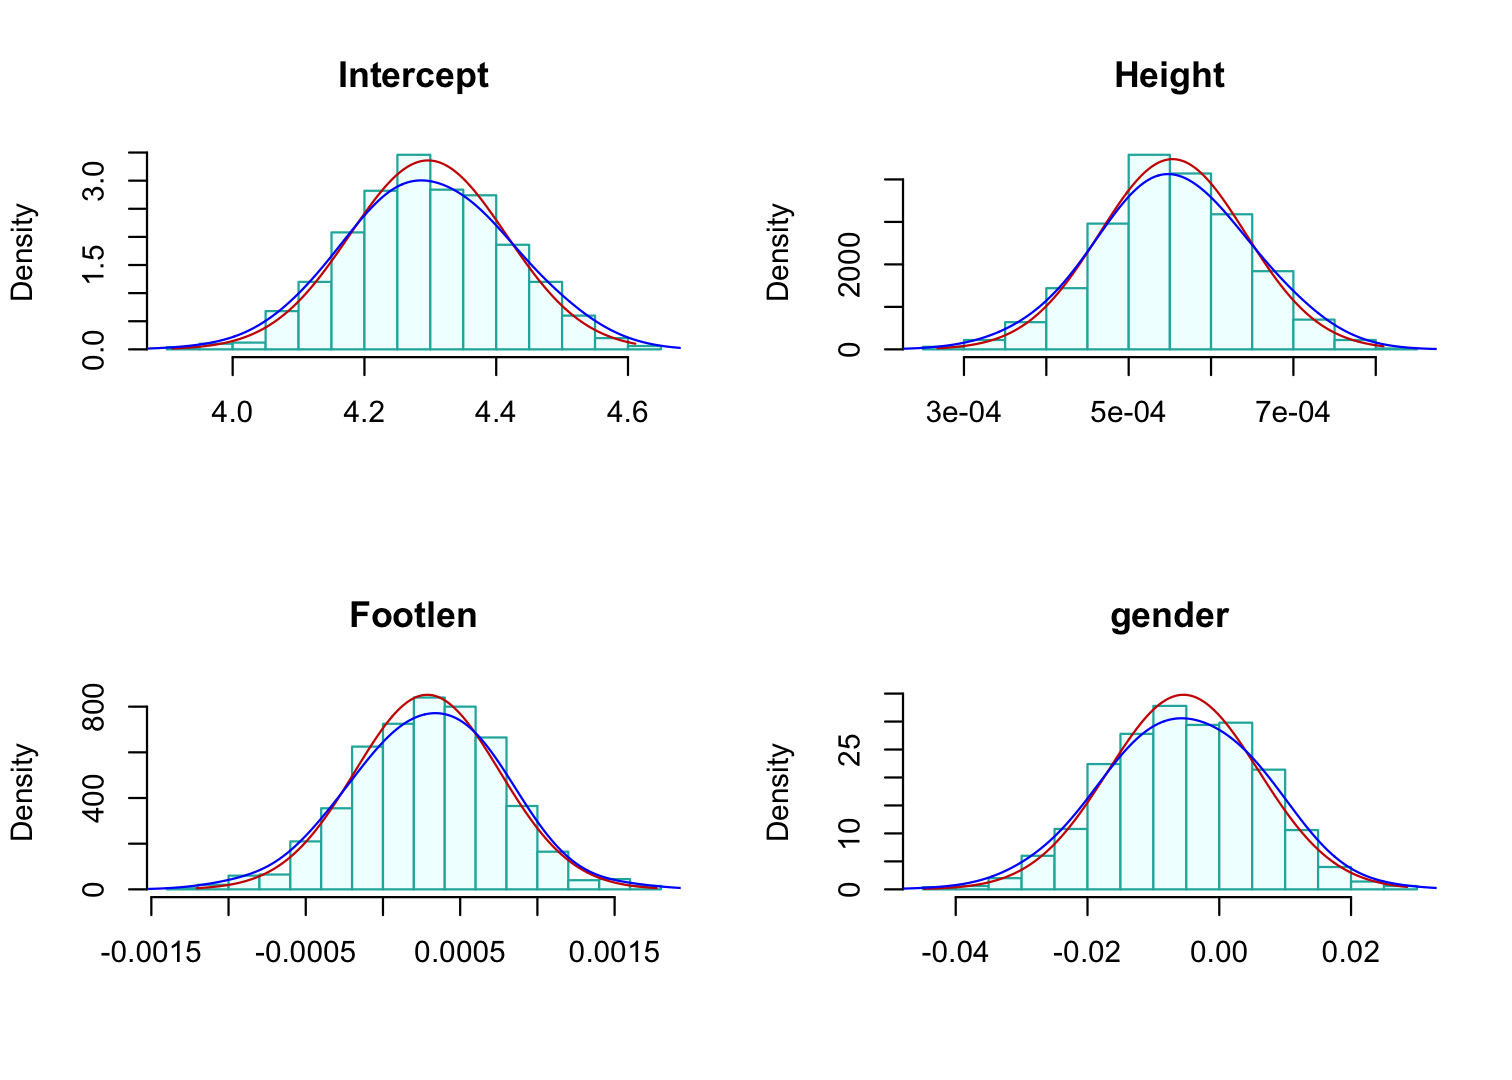
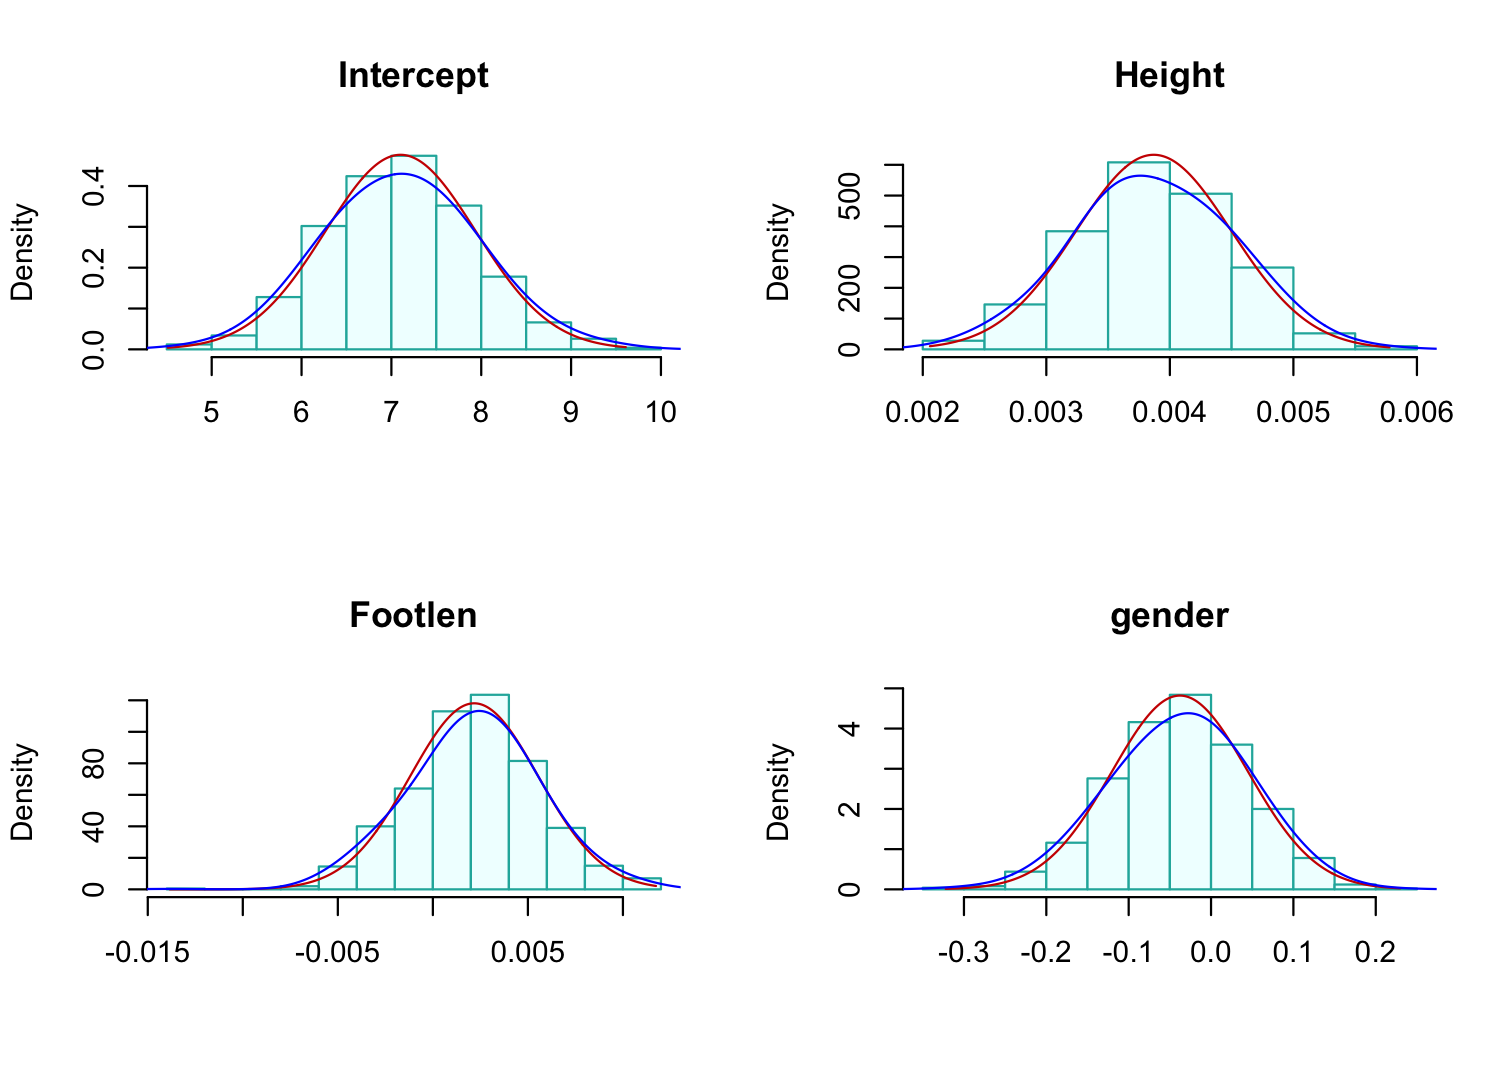
Add files via upload

diff --git a/MLR-Group-Presentation.html b/MLR-Group-Presentation.html
@@ -190,16 +190,16 @@ Table: Goodness-of-fit Measures of Candidate Models
 
 Table: Regression Coefficient Matrix
 
-|             |Estimate |Std. Error |t value |Pr(&gt;&amp;#124;t&amp;#124;) |btc.ci.95            |
-|:------------|:--------|:----------|:-------|:------------------|:--------------------|
-|(Intercept)  |4.3042   |0.0838     |51.3727 |0.0000             |[ 4.0669 ,  4.5256 ] |
-|height       |0.0005   |0.0001     |8.0735  |0.0000             |[ 4e-04 ,  7e-04 ]   |
-|footLen      |0.0003   |0.0003     |1.0315  |0.3040             |[ -7e-04 ,  0.0011 ] |
-|genderFemale |-0.0057  |0.0091     |-0.6314 |0.5287             |[ -0.0289 ,  0.016 ] |
+|             |Estimate |Std. Error |t value |Pr(&gt;&amp;#124;t&amp;#124;) |btc.ci.95             |
+|:------------|:--------|:----------|:-------|:------------------|:---------------------|
+|(Intercept)  |7.1362   |0.5890     |12.1153 |0.0000             |[ 5.5095 ,  8.7814 ]  |
+|height       |0.0039   |0.0005     |8.1507  |0.0000             |[ 0.0026 ,  0.0051 ]  |
+|footLen      |0.0021   |0.0022     |0.9630  |0.3371             |[ -0.0047 ,  0.0088 ] |
+|genderFemale |-0.0400  |0.0636     |-0.6282 |0.5308             |[ -0.2051 ,  0.1181 ] |
 
 ---
 
-&lt;h2 align="center"&gt; log transformation residual plot  &lt;/h2&gt;
+&lt;h2 align="center"&gt; Square Root transformation residual plot  &lt;/h2&gt;
 
 
 &lt;div class="figure" style="text-align: center"&gt;
@@ -210,29 +210,25 @@ Table: Regression Coefficient Matrix
 
 
 ---
+class:  center 
 
 &lt;h2 align="center"&gt; Final Model  &lt;/h2&gt;
 
-
-
-
-
-$$
-log(handLen) = 4.3042058 +(0.0005444* height) + (0.0003162 *footLen) - (0.0057154* genderFemale)
-$$
+`\(\sqrt{handLen} = 7.1362183 +(0.0039* height) + (0.0021 *footLen) - (0.0400* genderFemale)\)`
 ---
 
 &lt;h2 align="center"&gt; Final Thoughts &lt;/h2&gt;
 
 
-• The log transformation Is the best model for determining correlation between hand length 
+• The square root transformation Is the best model for determining correlation between hand length 
 and closely related variables
 
-• Regression analysis wasn’t helpful 
+• Transformation was not able to correct non-normality of response variable. 
+A box cox transformation may be helpful in further analysis
 
-• Bootstrapping isn’t necessary for the final model because the data is normal
+• Bootstrapping resulted in identical residuals
 
-• Kept the hand length and gender even though they weren’t “highly correlated” because 
+• Kept the hand length and gender even though they didn't have "statistical significance" with foot length.
 they are important and you can see in exploratory analysis that it has correlation.
     </textarea>
 <style data-target="print-only">@media screen {.remark-slide-container{display:block;}.remark-slide-scaler{box-shadow:none;}}</style>
